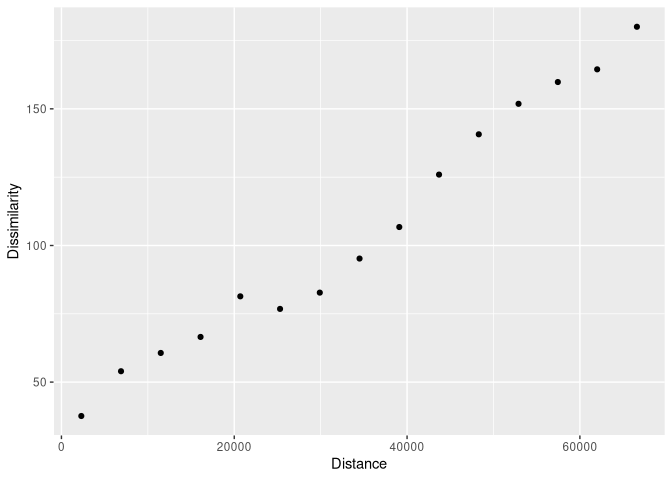
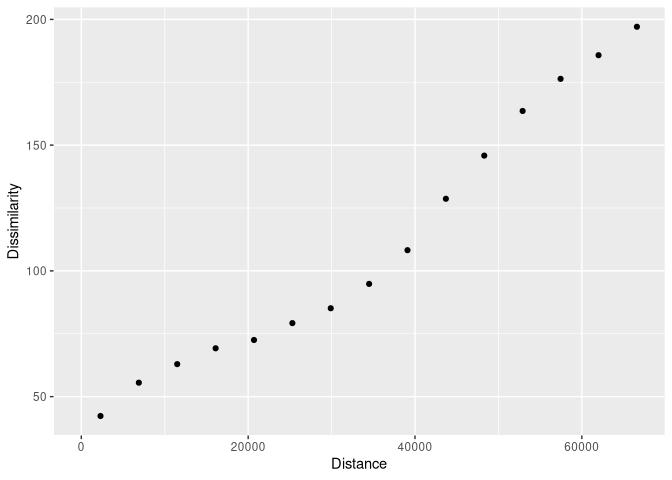
updates readme

diff --git a/README.md b/README.md
@@ -36,7 +36,7 @@ devtools::install_github("Nowosad/patternogram")
 ``` r
 library(patternogram)
 library(terra)
-#> terra 1.7.44
+#> terra 1.8.60
 r = rast(system.file("ex/elev.tif", package = "terra"))
 plot(r)
 ```
@@ -49,21 +49,21 @@ pr
 #> # A tibble: 15 × 3
 #>       np  dist dissimilarity
 #>  * <int> <dbl>         <dbl>
-#>  1   105  2300          37.6
-#>  2   328  6895          54.0
-#>  3   474 11495          60.7
-#>  4   552 16100          66.5
-#>  5   583 20700          81.4
-#>  6   568 25300          76.8
-#>  7   526 29900          82.7
-#>  8   490 34500          95.2
-#>  9   405 39100         107. 
-#> 10   326 43700         126. 
-#> 11   234 48300         141. 
-#> 12   172 52900         152. 
-#> 13    81 57450         160. 
-#> 14    57 62000         164. 
-#> 15    28 66600         180.
+#>  1  2920  2300          42.3
+#>  2  7904  6895          55.5
+#>  3 11508 11495          62.9
+#>  4 13683 16100          69.2
+#>  5 14655 20700          72.5
+#>  6 14795 25300          79.2
+#>  7 13410 29900          85.1
+#>  8 11937 34500          94.8
+#>  9  9645 39100         108. 
+#> 10  7408 43700         129. 
+#> 11  5653 48300         146. 
+#> 12  4220 52900         164. 
+#> 13  2968 57450         176. 
+#> 14  2038 62000         186. 
+#> 15  1196 66600         197.
 plot(pr)
 ```
 
